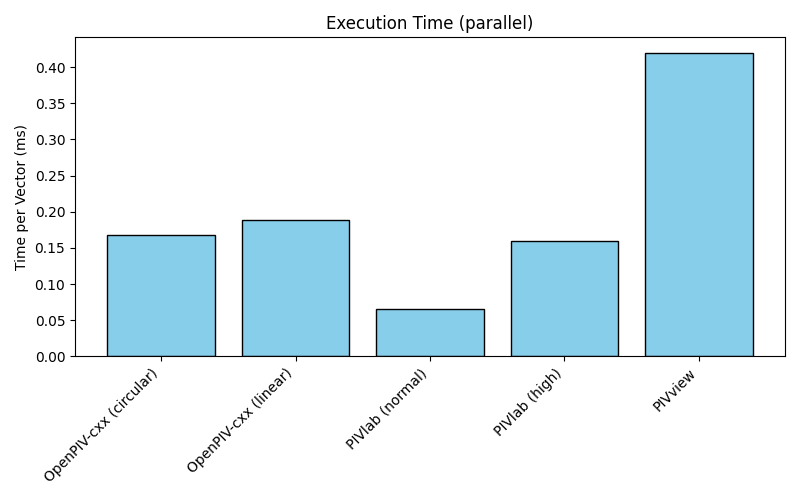
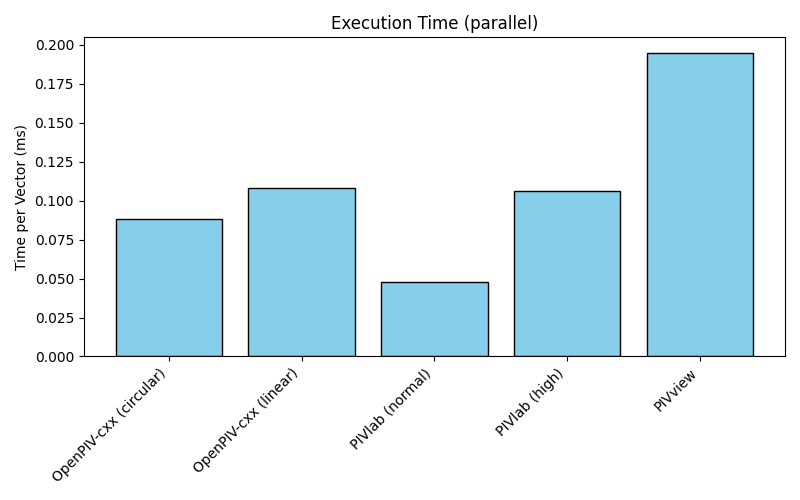
Updated benchmark after further enhancements

diff --git a/pages/blogs/blog-openpiv-cxx-performance.md b/pages/blogs/blog-openpiv-cxx-performance.md
@@ -75,12 +75,12 @@ To analyze the performance of the new enhancements to the c++ version of OpenPIV
 | Batch 1 | Particle size test | 0 pixels to 10 pixels; 2.5 pixels displacement |
 | Batch 2 | Noise test | 0% noise to 25% noise; 2.5 pixels displacement |
 | Batch 3 | Particle density test | 0 ppp to 0.2 ppp; 2.5 pixels displacement |
-| Batch 4 | Displacement test | 0% particle loss; 0-5 pixels displacement |
-| Batch 5 | Displacement test | 5% particle loss; 0-5 pixels displacement |
-| Batch 6 | Displacement test | 10% particle loss; 0-5 pixels displacement |
-| Batch 7 | Displacement test | 15% particle loss; 0-5 pixels displacement |
-| Batch 8 | Displacement test | 20% particle loss; 0-5 pixels displacement |
-| Batch 9 | Displacement test | 25% particle loss; 0-5 pixels displacement |
+| Batch 4 | Displacement test | 0.000 noise; 0-5 pixels displacement |
+| Batch 5 | Displacement test | 0.005 noise; 0-5 pixels displacement |
+| Batch 6 | Displacement test | 0.010 noise; 0-5 pixels displacement |
+| Batch 7 | Displacement test | 0.015 noise; 0-5 pixels displacement |
+| Batch 8 | Displacement test | 0.020 noise; 0-5 pixels displacement |
+| Batch 9 | Displacement test | 0.025 noise; 0-5 pixels displacement |
 
 During the tests, some amends were made. For one, particle diameters had a standard deviation of zero for test batches one through three so minimize variables. Batches four to nine still have a standard deviation of one pixel (e.g., particle sizes of 3 +/- 1 pixels). Finally, particle loss was removed from the noise tests due to certain concerns observed during the results, which seemed to not be a problem.
 
@@ -94,7 +94,7 @@ PIVlab (normal):
 | Overlap Sizes | 32 -> 16 -> 12 |
 | Zero Padding | None |
 | Interpolation | Linear |
-| Interp Order | 1 (forward) |
+| Deformation Order | 1 (forward) |
 
 PIVlab (normal):
 | Setting | Value |
@@ -103,7 +103,7 @@ PIVlab (normal):
 | Overlap Sizes | 32 -> 16 -> 12 |
 | Zero Padding | 2N - 1 |
 | Interpolation | Spline (k=3) |
-| Interp Order | 1 (forward) |
+| Deformation Order | 1 (forward) |
 
 OpenPIV (circular)
 | Setting | Value |
@@ -112,7 +112,7 @@ OpenPIV (circular)
 | Overlap Sizes | 32 -> 16 -> 12 |
 | Zero Padding | None |
 | Interpolation | Lagrange (k=3) |
-| Interp Order | 2 (symmetric) |
+| Deformation Order | 2 (symmetric) |
 
 OpenPIV (linear)
 | Setting | Value |
@@ -121,10 +121,19 @@ OpenPIV (linear)
 | Overlap Sizes | 32 -> 16 -> 12 |
 | Zero Padding | 2N |
 | Interpolation | Lagrange (k=3) |
-| Interp Order | 2 (symmetric) |
+| Deformation Order | 2 (symmetric) |
+
+PIVview
+| Setting | Value |
+| --- | --- |
+| IW Sizes | 64 -> 32 -> 24 |
+| Overlap Sizes | 32 -> 16 -> 12 |
+| Zero Padding | None |
+| Interpolation | Spline (k=3) |
+| Deformation Order | 2 (symmetric) |
 
 ### Results
-The results from the benchmark can be seen below. An immediate difference can be seen between OpenPIV-cxx's symmetric deformation and PIVlab's forward deformation. This is especially noticable on tests 1-3 where the particle displacement is located at the peak error of the interpolation's frequency response whereas forward deformation has a minimum error at this displacement. When using forward deformation for OpenPIV-cxx, tests 1-3 converge quite neatly showing the effectiveness of the lagrange interpolation as a substitute to basis splines. In general, zero padding the interrogation windows to remove periodic signals from the fast fourier transforms decreased bias and RMS errors. This can also be seen in PIVlab's `high` setting. As such, the c++ implementation appears to be in agreement with PIVlab (which is sometimes more accurate/precise than commercial software) in regards to this specific benchmark suite. Finally, a the time per vector for PIVlab, OpenPIV-cxx (without SIMD optimizations), and the venerable PIVview software can be seen in the final figure. 
+The results from the benchmark can be seen below. An immediate difference can be seen between OpenPIV-cxx's symmetric deformation and PIVlab's forward deformation. This is especially noticable on tests 1-3 where the particle displacement is located at the peak error of the interpolation's frequency response whereas forward deformation has a minimum error at this displacement. When using forward deformation for OpenPIV-cxx, tests 1-3 converge quite neatly showing the effectiveness of the lagrange interpolation as a substitute to basis splines. In general, zero padding the interrogation windows to remove periodic signals from the fast fourier transforms decreased bias and RMS errors. This can also be seen in PIVlab's `high` setting. As such, the c++ implementation appears to be in agreement with PIVlab (which is sometimes more accurate/precise than commercial software) in regards to this specific benchmark suite. Finally, a the time per vector for PIVlab, OpenPIV-cxx (with FFT SIMD optimizations), and the venerable PIVview software can be seen in the final figure. Through these benchmarks, many optimizations have been made to OpenPIV-cxx to improve its memory efficiency, thus improving it's performance significantly and to the level of Matlab optimizations.
 
 ![test 1 bias](/pages/blogs/assets/test_1_bias.png)
 ![test 1 rmse](/pages/blogs/assets/test_1_rmse.png)
@@ -156,4 +165,4 @@ The results from the benchmark can be seen below. An immediate difference can be
 ![time test serial](/pages/blogs/assets/test_execution_time_serial.png)
 ![time test parallel](/pages/blogs/assets/test_execution_time_parallel.png)
 
-A notable mention should be made for the parallel tests. PIVlab used 8 parallel processes (workers) which each processing their own image pairs. This is the most efficient form of distributed processing for PIV images that are not time-resolved. Contrarily, PIVview and OpenPIV-cxx used multithreading with 8 threads processing the same image pair. This is a lot less efficient compared to distributed processing, as seen in PIVlab's performance. Finally, the correlation algorithms in OpenPIV-cxx would need to be profiled since circular correlation (no zero padding) performs at the same level as linear correlation (with zero padding). This should not be the case.
+A notable mention should be made for the parallel tests. PIVlab used 8 parallel processes (workers) which each processing their own image pairs. This is the most efficient form of distributed processing for PIV images that are not time-resolved. Contrarily, PIVview and OpenPIV-cxx used multithreading with 8 threads processing the same image pair. This is a lot less efficient compared to distributed processing, as seen in PIVlab's performance.
